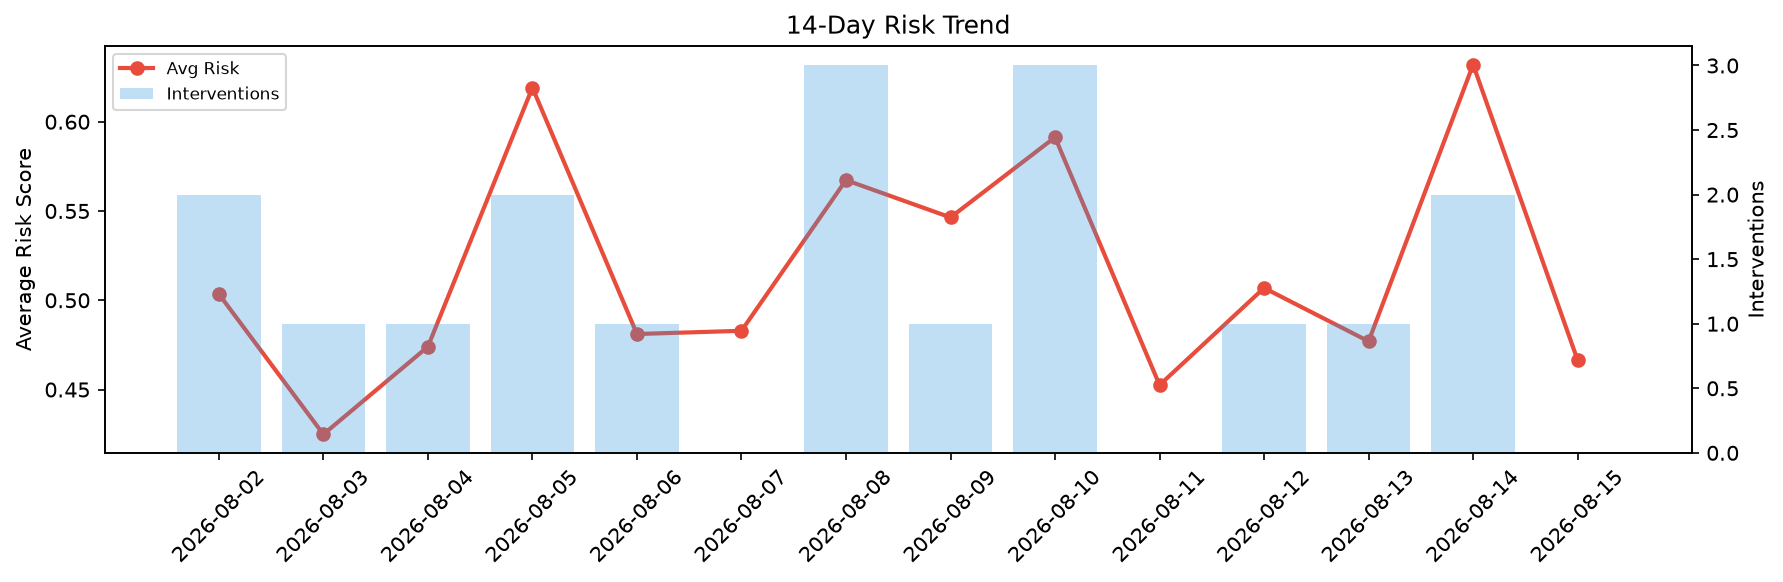
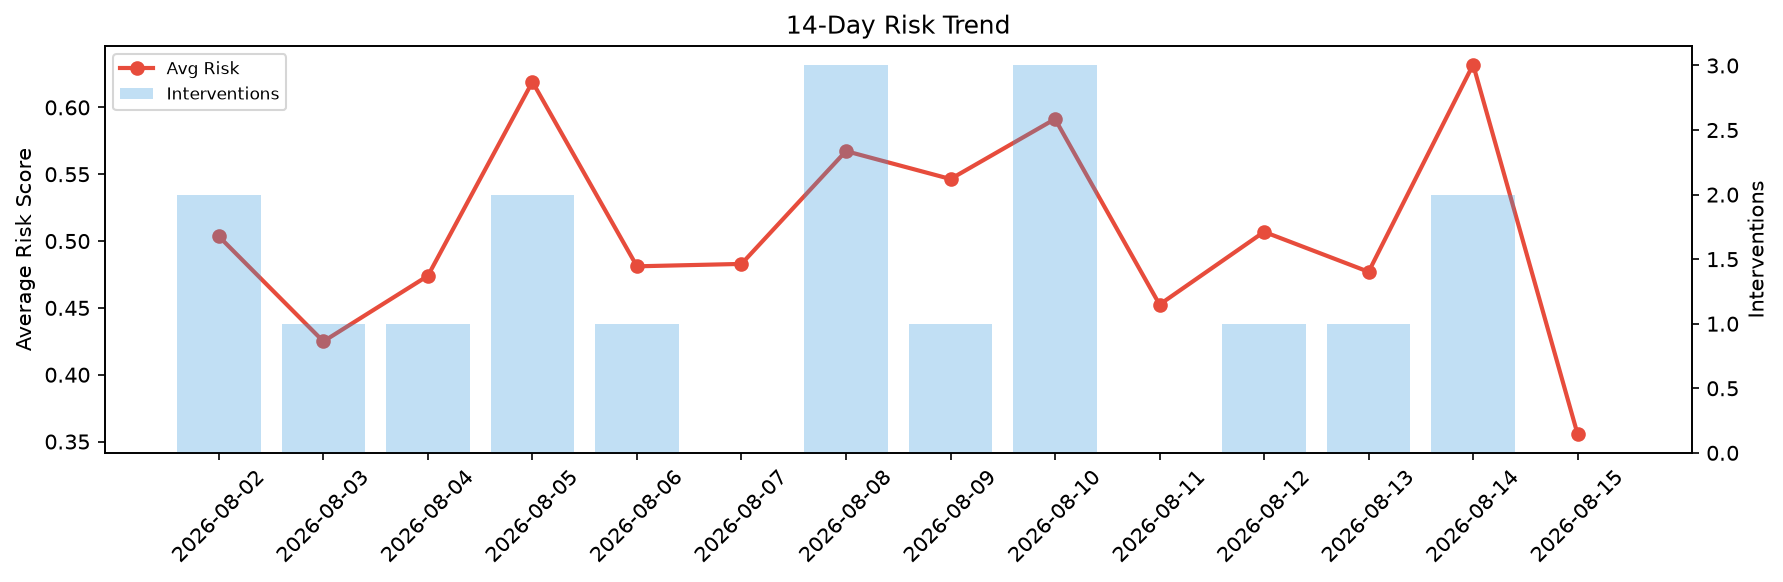
agent-improvement: daily cycle 2026-08-15T08:44

diff --git a/logs/2026-08-15.md b/logs/2026-08-15.md
@@ -1,6 +1,6 @@
 # Agent Improvement Report — 2026-08-15
 
-**Cycle ID:** `bc470957` | **Avg Risk:** 0.4664 | **Interventions:** 0/4
+**Cycle ID:** `c65f0f7b` | **Avg Risk:** 0.3554 | **Interventions:** 0/4
 
 ![Dashboard](2026-08-15_dashboard.png)
 
@@ -10,18 +10,18 @@
 
 | Domain | Risk Score | Decision | Alerts |
 |--------|-----------|----------|--------|
-| code_review | 0.5488 | monitor | none |
-| incident_response | 0.5097 | monitor | mttr |
-| data_pipeline | 0.4108 | monitor | freshness |
-| deployment | 0.3964 | monitor | none |
+| code_review | 0.5949 | monitor | none |
+| incident_response | 0.3874 | monitor | none |
+| data_pipeline | 0.2538 | monitor | none |
+| deployment | 0.1855 | monitor | none |
 
 ## Delta vs Yesterday
 
 | Domain | Today | Yesterday | Change |
 |--------|-------|-----------|--------|
-| code_review | 0.5488 | 0.5349 | 📈 2.6% |
-| incident_response | 0.5097 | 0.4129 | 📈 23.4% |
-| data_pipeline | 0.4108 | 0.7275 | 📉 -43.5% |
-| deployment | 0.3964 | 0.8527 | 📉 -53.5% |
+| code_review | 0.5949 | 0.5349 | 📈 11.2% |
+| incident_response | 0.3874 | 0.4129 | 📉 -6.2% |
+| data_pipeline | 0.2538 | 0.7275 | 📉 -65.1% |
+| deployment | 0.1855 | 0.8527 | 📉 -78.2% |
 
 **Refinement:** `{'adjustment': 'maintain', 'trend': 'improving', 'window': 4}`
